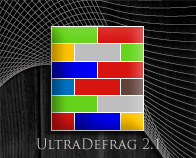
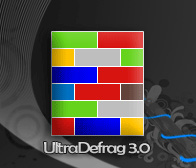
Added PiWik inplace of google analytics in front webpgaes.

diff --git a/doc/html/download.html b/doc/html/download.html
@@ -102,12 +102,12 @@ alt="Valid CSS!" /></a></p>
 <div class="mpart">
 <h3>You will be redirected to the SOURCEFORGE.net UltraDefrag Download Page in 5 Seconds. </h3>
 <hr />
-<p>Or click <a href="http://downloads.sourceforge.net/ultradefrag/ultradefrag-2.1.2.bin.i386.exe"><strong>&lt;HERE&gt;</strong></a> to download the <strong>32 bit version</strong> </p>
+<p>Or click <a href="http://downloads.sourceforge.net/ultradefrag/ultradefrag-3.0.0.bin.i386.exe"><strong>&lt;HERE&gt;</strong></a> to download the <strong>32 bit version</strong> </p>
 <p>(For all 32 bit Operating Systems - Windows NT4.0/2000/2003/XP/Vista/Server2008)</p>
 <hr />
-<p>Or click <a href="http://downloads.sourceforge.net/ultradefrag/ultradefrag-2.1.2.bin.amd64.exe"><strong>&lt;HERE&gt;</strong></a> to download the <strong>64 bit version</strong> (AMD platform)</p>
-<p>Or click <a href="http://downloads.sourceforge.net/ultradefrag/ultradefrag-2.1.2.bin.amd64.exe"><strong>&lt;HERE&gt;</strong></a> to download the <strong>64 bit version</strong> (Intel Core2 Duo, Pentium D etc.)</p>
-<p>Or click <a href="http://downloads.sourceforge.net/ultradefrag/ultradefrag-2.1.2.bin.ia64.exe"><strong>&lt;HERE&gt;</strong></a> to download the <strong>64 bit version</strong> (Itanium etc.)</p>
+<p>Or click <a href="http://downloads.sourceforge.net/ultradefrag/ultradefrag-3.0.0.bin.amd64.exe"><strong>&lt;HERE&gt;</strong></a> to download the <strong>64 bit version</strong> (AMD platform)</p>
+<p>Or click <a href="http://downloads.sourceforge.net/ultradefrag/ultradefrag-3.0.0.bin.amd64.exe"><strong>&lt;HERE&gt;</strong></a> to download the <strong>64 bit version</strong> (Intel Core2 Duo, Pentium D etc.)</p>
+<p>Or click <a href="http://downloads.sourceforge.net/ultradefrag/ultradefrag-3.0.0.bin.ia64.exe"><strong>&lt;HERE&gt;</strong></a> to download the <strong>64 bit version</strong> (Itanium etc.)</p>
 <hr />
 </div>
 <div class="greybox">		        <a href="#top" title="#"><img src="images/up.gif" alt="" width="10" height="12" />Back to Top</a></div>
@@ -129,16 +129,17 @@ window.location = "http://sourceforge.net/project/showfiles.php?group_id=199532"
 </script>
 </head>
 <body onLoad="setTimeout('delayer()', 5000)">
-<!-- GOOGLE ANALYTICS BEGIN -->
+<!-- Piwik -->
 <script type="text/javascript">
-var gaJsHost = (("https:" == document.location.protocol) ? "https://ssl." : "http://www.");
-document.write(unescape("%3Cscript src='" + gaJsHost + "google-analytics.com/ga.js' type='text/javascript'%3E%3C/script%3E"));
+var pkBaseURL = (("https:" == document.location.protocol) ? "https://apps.sourceforge.net/piwik/ultradefrag/" : "http://apps.sourceforge.net/piwik/ultradefrag/");
+document.write(unescape("%3Cscript src='" + pkBaseURL + "piwik.js' type='text/javascript'%3E%3C/script%3E"));
+</script><script type="text/javascript">
+piwik_action_name = '';
+piwik_idsite = 1;
+piwik_url = pkBaseURL + "piwik.php";
+piwik_log(piwik_action_name, piwik_idsite, piwik_url);
 </script>
-<script type="text/javascript">
-var pageTracker = _gat._getTracker("UA-2897964-4");
-pageTracker._initData();
-pageTracker._trackPageview();
-</script>
-<!-- GOOGLE ANALYTICS END -->
+<object><noscript><p><img src="http://apps.sourceforge.net/piwik/ultradefrag/piwik.php?idsite=1" alt="piwik"/></p></noscript></object>
+<!-- End Piwik Tag -->
 </body>
 </html>

diff --git a/doc/html/index.html b/doc/html/index.html
@@ -35,4 +35,16 @@
 <p>&nbsp;</p>
 <p><a href="http://downloads.sourceforge.net/ultradefrag/ultradefrag-3.0.0.bin.ia64.exe"><img src="images/download_itanium.gif" alt="" width="131" height="53" /></a><strong>For 64 bit version</strong> (Itanium etc.)</p>
 <hr />
-<div class="date"><a href="#" title="#">Posted on </a> . 18th Feb 2009</div> </div>  <div class="greybox"> <p><a href="#top" title="#"><img src="images/up.gif" alt="" width="10" height="12" />Back to Top</a></p> </div>  </div>  </div> <div id="footer"> <div class="right"> <p>&copy; Copyright 2007 - 2009 <a href="mailto:dmitriar%20+%20at%20+%20gmail%20+%20dot%20+%20com">Dmitri Arkhangelski</a>, <a href="mailto:zippy1981 + at + gmail + dot + com">Justin Dearing</a>	        </p> <p><a href="http://validator.w3.org/check?uri=referer" title="Validate">XHTML</a> - <a href="http://jigsaw.w3.org/css-validator/check/referer" title="Validate">CSS </a></p> </div> </div> </div> <script type="text/javascript"> var gaJsHost = (("https:" == document.location.protocol) ? "https://ssl." : "http://www."); document.write(unescape("%3Cscript src='" + gaJsHost + "google-analytics.com/ga.js' type='text/javascript'%3E%3C/script%3E")); </script> <script type="text/javascript"> var pageTracker = _gat._getTracker("UA-2897964-4"); pageTracker._initData(); pageTracker._trackPageview(); </script> </body> </html>
+<div class="date"><a href="#" title="#">Posted on </a> . 18th Feb 2009</div> </div>  <div class="greybox"> <p><a href="#top" title="#"><img src="images/up.gif" alt="" width="10" height="12" />Back to Top</a></p> </div>  </div>  </div> <div id="footer"> <div class="right"> <p>&copy; Copyright 2007 - 2009 <a href="mailto:dmitriar%20+%20at%20+%20gmail%20+%20dot%20+%20com">Dmitri Arkhangelski</a>, <a href="mailto:zippy1981 + at + gmail + dot + com">Justin Dearing</a>	        </p> <p><a href="http://validator.w3.org/check?uri=referer" title="Validate">XHTML</a> - <a href="http://jigsaw.w3.org/css-validator/check/referer" title="Validate">CSS </a></p> </div> </div> </div> 
+<!-- Piwik -->
+<script type="text/javascript">
+var pkBaseURL = (("https:" == document.location.protocol) ? "https://apps.sourceforge.net/piwik/ultradefrag/" : "http://apps.sourceforge.net/piwik/ultradefrag/");
+document.write(unescape("%3Cscript src='" + pkBaseURL + "piwik.js' type='text/javascript'%3E%3C/script%3E"));
+</script><script type="text/javascript">
+piwik_action_name = '';
+piwik_idsite = 1;
+piwik_url = pkBaseURL + "piwik.php";
+piwik_log(piwik_action_name, piwik_idsite, piwik_url);
+</script>
+<object><noscript><p><img src="http://apps.sourceforge.net/piwik/ultradefrag/piwik.php?idsite=1" alt="piwik"/></p></noscript></object>
+<!-- End Piwik Tag --></body> </html>

diff --git a/doc/html/overview.html b/doc/html/overview.html
@@ -38,4 +38,15 @@
   </div> 
   <div class="greybox"> <a href="#top" title="#"><img src="images/up.gif" alt="" width="10" height="12" />Back to Top</a></div> </div> 
 </div> 
-<div id="footer"> <div class="right"> <p>&copy; Copyright 2007 - 2009 <a href="mailto:dmitriar%20+%20at%20+%20gmail%20+%20dot%20+%20com">Dmitri Arkhangelski</a>, <a href="mailto:zippy1981 + at + gmail + dot + com">Justin Dearing </a></p> <p> <a href="http://validator.w3.org/check?uri=referer" title="Validate">XHTML</a> - <a href="http://jigsaw.w3.org/css-validator/check/referer" title="Validate">CSS</a> </p> </div> </div> </div>  <!-- GOOGLE ANALYTICS BEGIN --> <script type="text/javascript"> var gaJsHost = (("https:" == document.location.protocol) ? "https://ssl." : "http://www."); document.write(unescape("%3Cscript src='" + gaJsHost + "google-analytics.com/ga.js' type='text/javascript'%3E%3C/script%3E")); </script> <script type="text/javascript"> var pageTracker = _gat._getTracker("UA-2897964-4"); pageTracker._initData(); pageTracker._trackPageview(); </script> <!-- GOOGLE ANALYTICS END -->  </body> </html> 
+<div id="footer"> <div class="right"> <p>&copy; Copyright 2007 - 2009 <a href="mailto:dmitriar%20+%20at%20+%20gmail%20+%20dot%20+%20com">Dmitri Arkhangelski</a>, <a href="mailto:zippy1981 + at + gmail + dot + com">Justin Dearing </a></p> <p> <a href="http://validator.w3.org/check?uri=referer" title="Validate">XHTML</a> - <a href="http://jigsaw.w3.org/css-validator/check/referer" title="Validate">CSS</a> </p> </div> </div> </div> <!-- Piwik -->
+<script type="text/javascript">
+var pkBaseURL = (("https:" == document.location.protocol) ? "https://apps.sourceforge.net/piwik/ultradefrag/" : "http://apps.sourceforge.net/piwik/ultradefrag/");
+document.write(unescape("%3Cscript src='" + pkBaseURL + "piwik.js' type='text/javascript'%3E%3C/script%3E"));
+</script><script type="text/javascript">
+piwik_action_name = '';
+piwik_idsite = 1;
+piwik_url = pkBaseURL + "piwik.php";
+piwik_log(piwik_action_name, piwik_idsite, piwik_url);
+</script>
+<object><noscript><p><img src="http://apps.sourceforge.net/piwik/ultradefrag/piwik.php?idsite=1" alt="piwik"/></p></noscript></object>
+<!-- End Piwik Tag --> </body> </html> 

diff --git a/doc/html/disclaimer.html b/doc/html/disclaimer.html
@@ -113,16 +113,17 @@ This program is distributed in the hope that it will be  useful, but WITHOUT ANY
 </div>
 </div>
 </div>
-<!-- GOOGLE ANALYTICS BEGIN -->
+<!-- Piwik -->
 <script type="text/javascript">
-var gaJsHost = (("https:" == document.location.protocol) ? "https://ssl." : "http://www.");
-document.write(unescape("%3Cscript src='" + gaJsHost + "google-analytics.com/ga.js' type='text/javascript'%3E%3C/script%3E"));
+var pkBaseURL = (("https:" == document.location.protocol) ? "https://apps.sourceforge.net/piwik/ultradefrag/" : "http://apps.sourceforge.net/piwik/ultradefrag/");
+document.write(unescape("%3Cscript src='" + pkBaseURL + "piwik.js' type='text/javascript'%3E%3C/script%3E"));
+</script><script type="text/javascript">
+piwik_action_name = '';
+piwik_idsite = 1;
+piwik_url = pkBaseURL + "piwik.php";
+piwik_log(piwik_action_name, piwik_idsite, piwik_url);
 </script>
-<script type="text/javascript">
-var pageTracker = _gat._getTracker("UA-2897964-4");
-pageTracker._initData();
-pageTracker._trackPageview();
-</script>
-<!-- GOOGLE ANALYTICS END -->
+<object><noscript><p><img src="http://apps.sourceforge.net/piwik/ultradefrag/piwik.php?idsite=1" alt="piwik"/></p></noscript></object>
+<!-- End Piwik Tag -->
 </body>
 </html>

diff --git a/doc/html/development.html b/doc/html/development.html
@@ -146,16 +146,17 @@ koders_search_scope = "VTYF93C32MAWVGA46C4FQHE1AG";
 </div>
 </div>
 </div>
-<!-- GOOGLE ANALYTICS BEGIN -->
+<!-- Piwik -->
 <script type="text/javascript">
-var gaJsHost = (("https:" == document.location.protocol) ? "https://ssl." : "http://www.");
-document.write(unescape("%3Cscript src='" + gaJsHost + "google-analytics.com/ga.js' type='text/javascript'%3E%3C/script%3E"));
+var pkBaseURL = (("https:" == document.location.protocol) ? "https://apps.sourceforge.net/piwik/ultradefrag/" : "http://apps.sourceforge.net/piwik/ultradefrag/");
+document.write(unescape("%3Cscript src='" + pkBaseURL + "piwik.js' type='text/javascript'%3E%3C/script%3E"));
+</script><script type="text/javascript">
+piwik_action_name = '';
+piwik_idsite = 1;
+piwik_url = pkBaseURL + "piwik.php";
+piwik_log(piwik_action_name, piwik_idsite, piwik_url);
 </script>
-<script type="text/javascript">
-var pageTracker = _gat._getTracker("UA-2897964-4");
-pageTracker._initData();
-pageTracker._trackPageview();
-</script>
-<!-- GOOGLE ANALYTICS END -->
+<object><noscript><p><img src="http://apps.sourceforge.net/piwik/ultradefrag/piwik.php?idsite=1" alt="piwik"/></p></noscript></object>
+<!-- End Piwik Tag -->
 </body>
 </html>

diff --git a/doc/html/artgallery.html b/doc/html/artgallery.html
@@ -149,16 +149,17 @@ alt="Valid CSS!" /></a></p>
 </div>
 </div>
 </div>
-<!-- GOOGLE ANALYTICS BEGIN -->
+<!-- Piwik -->
 <script type="text/javascript">
-var gaJsHost = (("https:" == document.location.protocol) ? "https://ssl." : "http://www.");
-document.write(unescape("%3Cscript src='" + gaJsHost + "google-analytics.com/ga.js' type='text/javascript'%3E%3C/script%3E"));
+var pkBaseURL = (("https:" == document.location.protocol) ? "https://apps.sourceforge.net/piwik/ultradefrag/" : "http://apps.sourceforge.net/piwik/ultradefrag/");
+document.write(unescape("%3Cscript src='" + pkBaseURL + "piwik.js' type='text/javascript'%3E%3C/script%3E"));
+</script><script type="text/javascript">
+piwik_action_name = '';
+piwik_idsite = 1;
+piwik_url = pkBaseURL + "piwik.php";
+piwik_log(piwik_action_name, piwik_idsite, piwik_url);
 </script>
-<script type="text/javascript">
-var pageTracker = _gat._getTracker("UA-2897964-4");
-pageTracker._initData();
-pageTracker._trackPageview();
-</script>
-<!-- GOOGLE ANALYTICS END -->
+<object><noscript><p><img src="http://apps.sourceforge.net/piwik/ultradefrag/piwik.php?idsite=1" alt="piwik"/></p></noscript></object>
+<!-- End Piwik Tag -->
 </body>
 </html>

diff --git a/doc/html/links.html b/doc/html/links.html
@@ -128,16 +128,17 @@ alt="Valid CSS!" /></a></p>
 </div>
 </div>
 </div>
-<!-- GOOGLE ANALYTICS BEGIN -->
+<!-- Piwik -->
 <script type="text/javascript">
-var gaJsHost = (("https:" == document.location.protocol) ? "https://ssl." : "http://www.");
-document.write(unescape("%3Cscript src='" + gaJsHost + "google-analytics.com/ga.js' type='text/javascript'%3E%3C/script%3E"));
+var pkBaseURL = (("https:" == document.location.protocol) ? "https://apps.sourceforge.net/piwik/ultradefrag/" : "http://apps.sourceforge.net/piwik/ultradefrag/");
+document.write(unescape("%3Cscript src='" + pkBaseURL + "piwik.js' type='text/javascript'%3E%3C/script%3E"));
+</script><script type="text/javascript">
+piwik_action_name = '';
+piwik_idsite = 1;
+piwik_url = pkBaseURL + "piwik.php";
+piwik_log(piwik_action_name, piwik_idsite, piwik_url);
 </script>
-<script type="text/javascript">
-var pageTracker = _gat._getTracker("UA-2897964-4");
-pageTracker._initData();
-pageTracker._trackPageview();
-</script>
-<!-- GOOGLE ANALYTICS END -->
+<object><noscript><p><img src="http://apps.sourceforge.net/piwik/ultradefrag/piwik.php?idsite=1" alt="piwik"/></p></noscript></object>
+<!-- End Piwik Tag -->
 </body>
 </html>

diff --git a/doc/html/logos_web.html b/doc/html/logos_web.html
@@ -153,16 +153,17 @@ alt="Valid CSS!" /></a></p>
 </div>
 </div>
 </div>
-<!-- GOOGLE ANALYTICS BEGIN -->
+<!-- Piwik -->
 <script type="text/javascript">
-var gaJsHost = (("https:" == document.location.protocol) ? "https://ssl." : "http://www.");
-document.write(unescape("%3Cscript src='" + gaJsHost + "google-analytics.com/ga.js' type='text/javascript'%3E%3C/script%3E"));
+var pkBaseURL = (("https:" == document.location.protocol) ? "https://apps.sourceforge.net/piwik/ultradefrag/" : "http://apps.sourceforge.net/piwik/ultradefrag/");
+document.write(unescape("%3Cscript src='" + pkBaseURL + "piwik.js' type='text/javascript'%3E%3C/script%3E"));
+</script><script type="text/javascript">
+piwik_action_name = '';
+piwik_idsite = 1;
+piwik_url = pkBaseURL + "piwik.php";
+piwik_log(piwik_action_name, piwik_idsite, piwik_url);
 </script>
-<script type="text/javascript">
-var pageTracker = _gat._getTracker("UA-2897964-4");
-pageTracker._initData();
-pageTracker._trackPageview();
-</script>
-<!-- GOOGLE ANALYTICS END -->
+<object><noscript><p><img src="http://apps.sourceforge.net/piwik/ultradefrag/piwik.php?idsite=1" alt="piwik"/></p></noscript></object>
+<!-- End Piwik Tag -->
 </body>
 </html>

diff --git a/doc/html/wallpapers.html b/doc/html/wallpapers.html
@@ -145,16 +145,17 @@ alt="Valid CSS!" /></a></p>
 </div>
 </div>
 </div>
-<!-- GOOGLE ANALYTICS BEGIN -->
+<!-- Piwik -->
 <script type="text/javascript">
-var gaJsHost = (("https:" == document.location.protocol) ? "https://ssl." : "http://www.");
-document.write(unescape("%3Cscript src='" + gaJsHost + "google-analytics.com/ga.js' type='text/javascript'%3E%3C/script%3E"));
+var pkBaseURL = (("https:" == document.location.protocol) ? "https://apps.sourceforge.net/piwik/ultradefrag/" : "http://apps.sourceforge.net/piwik/ultradefrag/");
+document.write(unescape("%3Cscript src='" + pkBaseURL + "piwik.js' type='text/javascript'%3E%3C/script%3E"));
+</script><script type="text/javascript">
+piwik_action_name = '';
+piwik_idsite = 1;
+piwik_url = pkBaseURL + "piwik.php";
+piwik_log(piwik_action_name, piwik_idsite, piwik_url);
 </script>
-<script type="text/javascript">
-var pageTracker = _gat._getTracker("UA-2897964-4");
-pageTracker._initData();
-pageTracker._trackPageview();
-</script>
-<!-- GOOGLE ANALYTICS END -->
+<object><noscript><p><img src="http://apps.sourceforge.net/piwik/ultradefrag/piwik.php?idsite=1" alt="piwik"/></p></noscript></object>
+<!-- End Piwik Tag -->
 </body>
 </html>

diff --git a/doc/html/about.html b/doc/html/about.html
@@ -221,16 +221,17 @@ P7_opAB(1,1,1,0,0,0);
 </div>
 </div>
 </div>
-<!-- GOOGLE ANALYTICS BEGIN -->
+<!-- Piwik -->
 <script type="text/javascript">
-var gaJsHost = (("https:" == document.location.protocol) ? "https://ssl." : "http://www.");
-document.write(unescape("%3Cscript src='" + gaJsHost + "google-analytics.com/ga.js' type='text/javascript'%3E%3C/script%3E"));
+var pkBaseURL = (("https:" == document.location.protocol) ? "https://apps.sourceforge.net/piwik/ultradefrag/" : "http://apps.sourceforge.net/piwik/ultradefrag/");
+document.write(unescape("%3Cscript src='" + pkBaseURL + "piwik.js' type='text/javascript'%3E%3C/script%3E"));
+</script><script type="text/javascript">
+piwik_action_name = '';
+piwik_idsite = 1;
+piwik_url = pkBaseURL + "piwik.php";
+piwik_log(piwik_action_name, piwik_idsite, piwik_url);
 </script>
-<script type="text/javascript">
-var pageTracker = _gat._getTracker("UA-2897964-4");
-pageTracker._initData();
-pageTracker._trackPageview();
-</script>
-<!-- GOOGLE ANALYTICS END -->
+<object><noscript><p><img src="http://apps.sourceforge.net/piwik/ultradefrag/piwik.php?idsite=1" alt="piwik"/></p></noscript></object>
+<!-- End Piwik Tag -->
 </body>
 </html>

diff --git a/doc/html/sitemap.html b/doc/html/sitemap.html
@@ -84,17 +84,18 @@
   </div>
 </div>
 
-<!-- GOOGLE ANALYTICS BEGIN -->
+<!-- Piwik -->
 <script type="text/javascript">
-var gaJsHost = (("https:" == document.location.protocol) ? "https://ssl." : "http://www.");
-document.write(unescape("%3Cscript src='" + gaJsHost + "google-analytics.com/ga.js' type='text/javascript'%3E%3C/script%3E"));
+var pkBaseURL = (("https:" == document.location.protocol) ? "https://apps.sourceforge.net/piwik/ultradefrag/" : "http://apps.sourceforge.net/piwik/ultradefrag/");
+document.write(unescape("%3Cscript src='" + pkBaseURL + "piwik.js' type='text/javascript'%3E%3C/script%3E"));
+</script><script type="text/javascript">
+piwik_action_name = '';
+piwik_idsite = 1;
+piwik_url = pkBaseURL + "piwik.php";
+piwik_log(piwik_action_name, piwik_idsite, piwik_url);
 </script>
-<script type="text/javascript">
-var pageTracker = _gat._getTracker("UA-2897964-4");
-pageTracker._initData();
-pageTracker._trackPageview();
-</script>
-<!-- GOOGLE ANALYTICS END -->
+<object><noscript><p><img src="http://apps.sourceforge.net/piwik/ultradefrag/piwik.php?idsite=1" alt="piwik"/></p></noscript></object>
+<!-- End Piwik Tag -->
 
 </body>
 </html>

diff --git a/doc/html/manual.html b/doc/html/manual.html
@@ -1,3 +1,1 @@
-<HEAD>
-<meta HTTP-EQUIV="REFRESH" content="0; url=http://ultradefrag.sourceforge.net/handbook">
-</HEAD>
+<HEAD><meta HTTP-EQUIV="REFRESH" content="0; url=http://ultradefrag.sourceforge.net/handbook"></HEAD>
